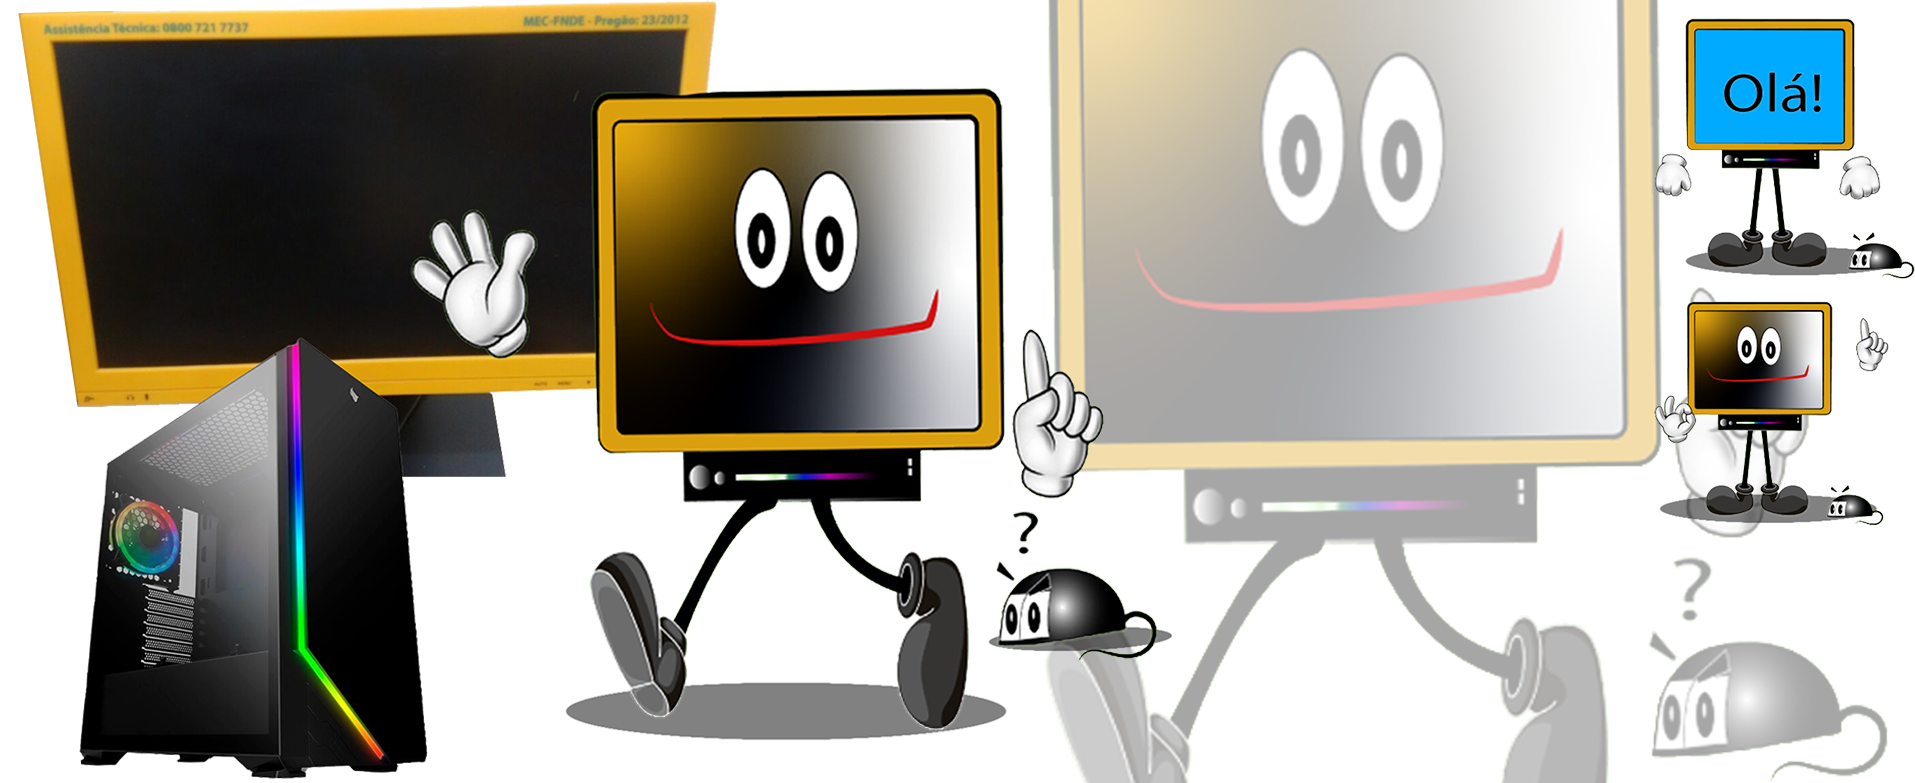
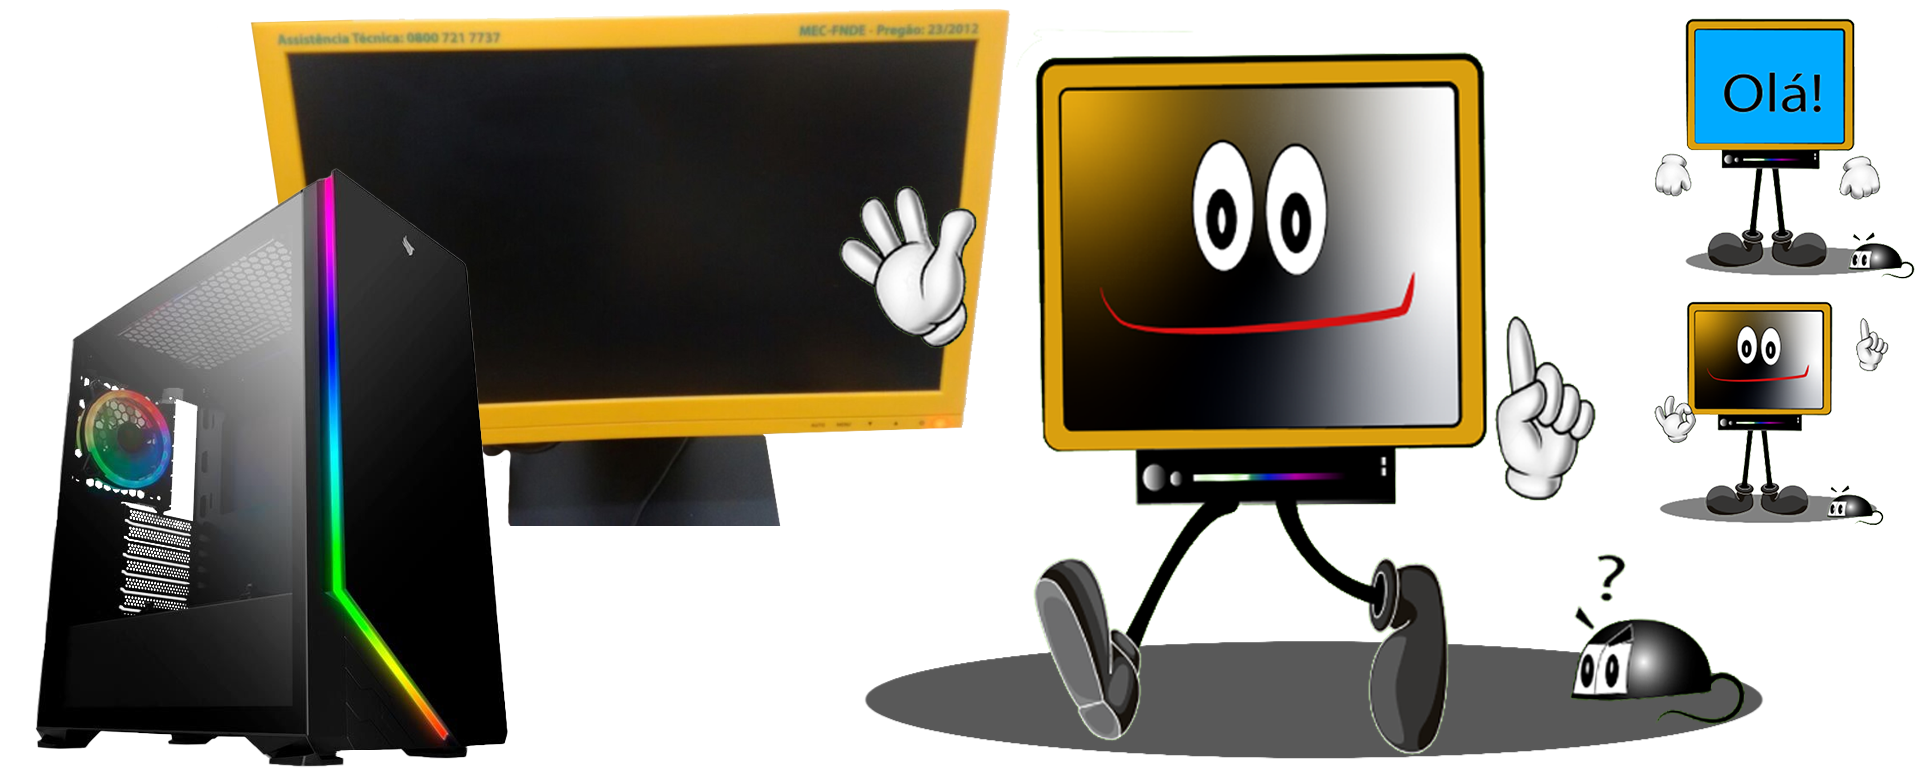
mascote atualizado

diff --git a/css/estilo.css b/css/estilo.css
@@ -94,7 +94,7 @@ body {
     
 }
 #banner2 img {
-    width: 60%;    
+    width: 100%;    
     margin-bottom: 0;
     margin: 50px auto;
    
